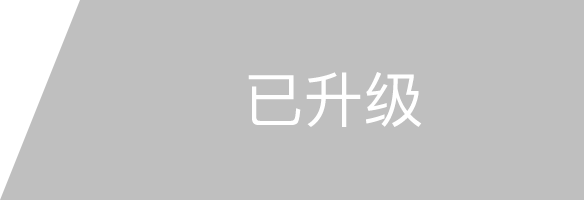
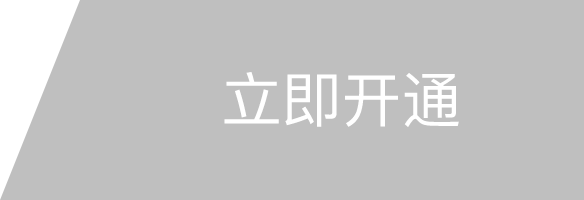
1

Changed region(s): [[0.3699, 0.36, 0.8014, 0.63]]

diff --git a/src/App.vue b/src/App.vue
@@ -5,6 +5,7 @@
         {{$route.meta.title}}
         <span @click="$router.push({name:'czjl'})" class="rightCorner" v-if="$route.meta.sxTx">充值记录</span>
         <span @click="$router.push({name:'withdrawRecord'})" class="rightCorner" v-if="$route.meta.retreat">提现记录</span>
+        <span @click="$router.push({name:'home'})" class="rightCorner" v-if="$route.query.wkzf">首页</span>
       </div>
       <div v-else-if="$route.meta.left" class="pageTitle">
         <i @click="goTop" class="el-icon-arrow-left hs"></i>
@@ -88,10 +89,17 @@ export default Vue.extend({
           to.meta.title = '智能还款'
           document.title = '智能还款'
           document.body.title = '智能还款'
-        }else if(vm.$route.query.aisle=='JYK'){
-          to.meta.title = '精养卡'
-          document.title = '精养卡'
-          document.body.title = '精养卡'
+        }
+      }
+      if (to.name == 'collection') {
+        if (to.query.aisle=='HB') {
+          to.meta.title = '花呗收款'
+          document.title = '花呗收款'
+          document.body.title = '花呗收款'
+        }else{
+          to.meta.title = '收款'
+          document.title = '收款'
+          document.body.title = '收款'
         }
       }
       if (to.name == 'teamItem') {
@@ -194,7 +202,11 @@ export default Vue.extend({
         return
       }
       if (this.$route.meta.title === '无卡支付' && this.$route.name === 'ifarme') {
-        this.$router.push({ name: 'collection' })
+        if (this.$route.query.aisle=='HB') {
+          this.$router.go(-2)
+        }else{
+          this.$router.go(-3)
+        }
         return
       }
       if (this.$route.name === 'notice') {

diff --git a/src/views/collection/selectChannel.vue b/src/views/collection/selectChannel.vue
@@ -110,7 +110,7 @@ export default {
       vm.$http.post(`request.app`,url)
         .then(res => {
           if (res.data[39] === '00') {
-            vm.$router.push({ name: 'ifarme', query: { url: res.data[30], title: '无卡支付' } })
+            vm.$router.push({ name: 'ifarme', query: { url: res.data[30], title: '无卡支付', aisle: vm.aisle } })
             
           } else {
               vm.$message({
@@ -169,7 +169,7 @@ export default {
       vm.$http.get(`request.app${url}`)
         .then(res => {
           if (res.data[39] === '00') {
-            vm.$router.push({ name: 'ifarme', query: { url: res.data[30], title: '无卡支付' } })
+            vm.$router.push({ name: 'ifarme', query: { url: res.data[30], title: '无卡支付', wkzf:true , aisle: vm.aisle} })
           } else {
               vm.$message({
                 message: res.data[39],

diff --git a/src/views/share/shareimg.vue b/src/views/share/shareimg.vue
@@ -9,7 +9,7 @@
       <div class="swiper-pagination" slot="pagination"></div>
     </swiper>
     <div id="codeDiv" ref="qrCodeUrl"></div>
-    <img @click="popShow=false" v-if="popShow" class="popImg" :src="newImg" alt="">
+    <img @click="sx" v-if="popShow" class="popImg" :src="newImg" alt="">
     <!-- <ul>
       <li @click="showImg(item)" v-for="(item,index) in img" :key="index">
         <img :src="item" alt="">
@@ -70,9 +70,14 @@ export default {
     // this.creatQrCode()
   },
   methods: {
+    sx(){
+      this.popShow = false
+      document.querySelector('#codeDiv').style='z-index:998'
+    },
     showImg(item){
       this.newImg = item
       this.popShow = true
+      document.querySelector('#codeDiv').style='z-index:1000'
     },
     creatQrCode() {
       let vm = this

diff --git a/src/views/member/upgrade.vue b/src/views/member/upgrade.vue
@@ -65,7 +65,7 @@
     </div>
     <div class="btnDiv">
       <span>{{itemObj[15] || '自动升级'}}</span>
-      <img @click="itemObj[15] ? popShow=true: ''" :src="(itemObj[15] && level<needToLevel) ? require('../../assets/member/ljkt.png'):require('../../assets/member/ljkth.png')" alt="">
+      <img @click="(itemObj[15] && level<needToLevel) ? popShow=true: ''" :src="itemObj[15] ? require('../../assets/member/ljkt.png') : level<needToLevel ? require('../../assets/member/ljkth.png'):require('../../assets/member/ysj.png')" alt="">
     </div>
     <div @click="popShow=false" v-if="popShow" class="czPopDiv">
       <ul @click.stop="">

diff --git a/src/views/collection.vue b/src/views/collection.vue
@@ -159,7 +159,7 @@ export default {
       this.$router.push({name: 'select', query: {money: parseInt(this.priceall)}})
     },
     toHb() {
-      this.$router.push({name: 'selectChannel', query: {money: parseInt(this.priceall)}})
+      this.$router.push({name: 'selectChannel', query: {money: parseInt(this.priceall), aisle: 'HB'}})
     },
     chooseNum(num) {
       if (num != "delete" && num != '.' && this.floorflag) {

diff --git a/src/views/plan/matter.vue b/src/views/plan/matter.vue
@@ -133,7 +133,7 @@ export default {
                 center: true,
                 offset: 30,
                 duration: 2000,
-                type: 'success'
+                type: 'warning'
               })
             }
           })

diff --git a/src/router/index.ts b/src/router/index.ts
@@ -338,7 +338,7 @@ const routes = [
     path: '/collection',
     name: 'collection',
     meta: {
-      title: '收款',
+      title: '',
       bgLeft: true
     },
     component: () => import('../views/collection.vue')
